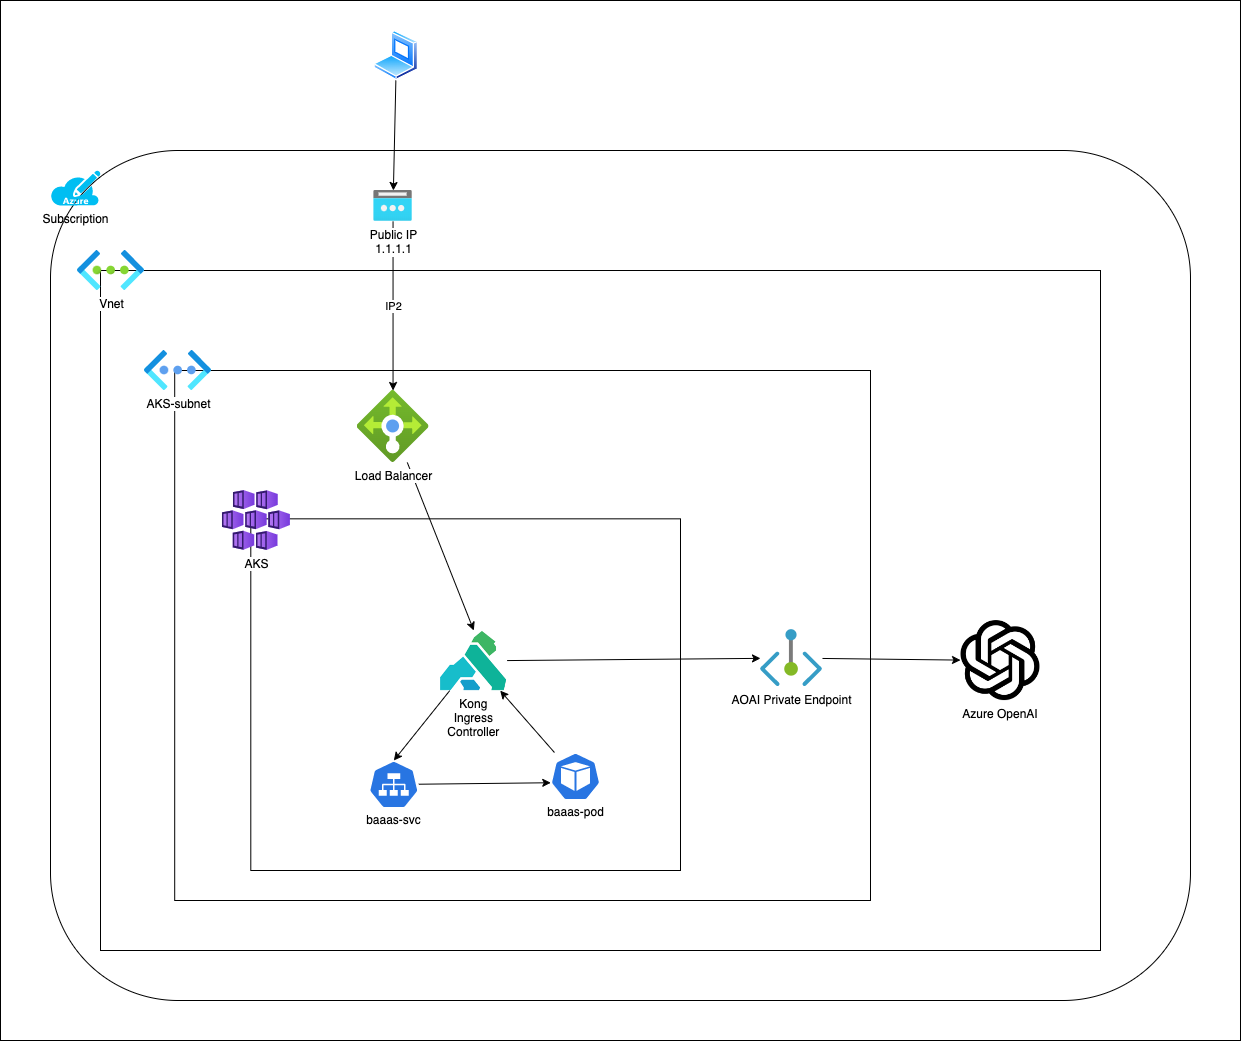
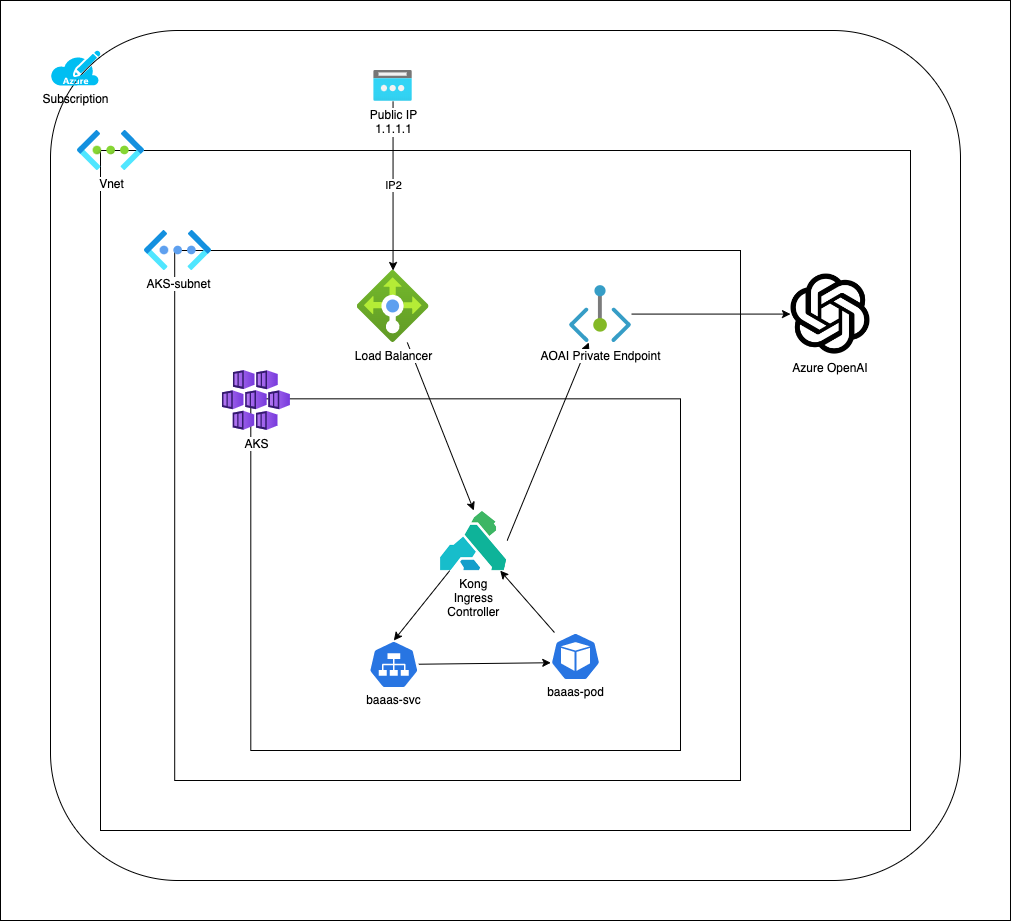
add clarifications

diff --git a/README.md b/README.md
@@ -4,7 +4,20 @@ This repo is designed to walk through the Azure OpenAI demo at Kong's API Summit
 
 ## Architecture
 
+This deployment uses the ["Bad Advice As a Service"](https://github.com/lastcoolnameleft/bad-advice-generator) repo docker image as an "uninteresting" webapp which provides a simple UI interface for Azure OpenAI.  Both the webapp and Azure OpenAI are fronted by Kong Ingress Controller.
+
+This meets the following requirements for this demo:
+- Deploy a simple webapp which uses OpenAI
+- Demonstrate using Kong to secure both the webapp and OpenAI
+- Prevent Azure OpenAI from being available from the public internet ([use Private Endpoints](https://learn.microsoft.com/en-us/azure/ai-services/cognitive-services-virtual-networks?context=%2Fazure%2Fai-services%2Fopenai%2Fcontext%2Fcontext&tabs=portal#use-private-endpoints))
+
 ![](kong-aoai.png)
+
+## Limitations
+
+For simplicity sake, there are additional best practices which this repo does not follow, but are recommended:
+- [Use Managed Identity instead of Key](https://learn.microsoft.com/en-us/azure/ai-services/openai/how-to/managed-identity)
+- [Store customer managed keys in Azure Key Vault](https://learn.microsoft.com/en-us/azure/ai-services/openai/encrypt-data-at-rest#customer-managed-keys-with-azure-key-vault)
 
 ## Prereqs
 
